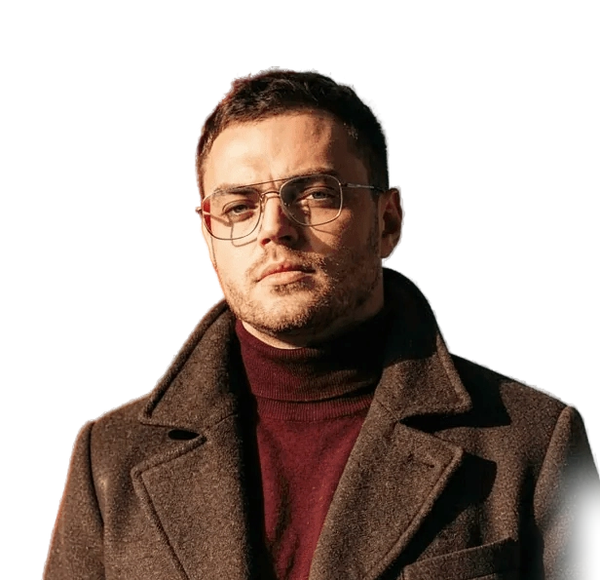
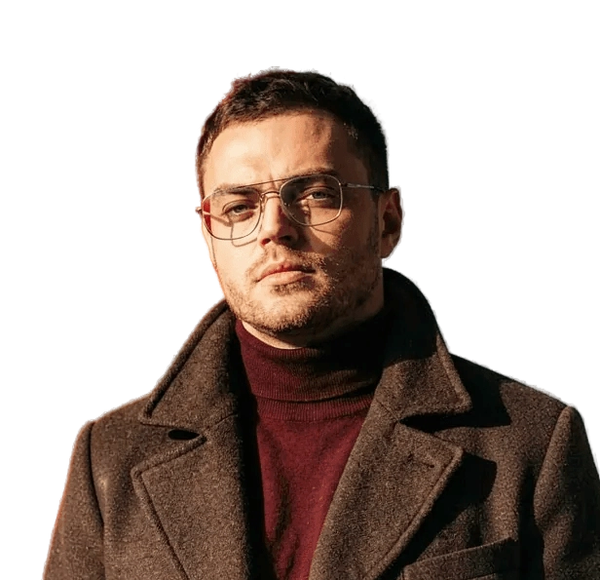
Презентация v3, команда: Кромм сдвинут влево и вниз — пальто уходит под плашку; у Москвичева слева ровная обрезка без размытия
Claude-Session: https://claude.ai/code/session_016TTUbKi4K5ZASpfJrwsQiN

Changed region(s): [[0.9, 0.7759, 1.0, 1.0]]

diff --git a/social-kit/deck-v3.html b/social-kit/deck-v3.html
@@ -334,6 +334,8 @@ a{color:inherit;text-decoration:none}
 .mate{position:relative;flex:none;width:384px;display:flex;flex-direction:column}
 .mate__ph{height:400px;background:center top/contain no-repeat;
   -webkit-mask-image:linear-gradient(#000 78%,transparent 100%);mask-image:linear-gradient(#000 78%,transparent 100%)}
+/* Кромм: пальто обрезано справа внизу — сдвигаем влево и чуть вниз, чтобы низ уходил под плашку */
+.mate__ph--krom{background-size:400px auto;background-position:-22px 4px}
 .mate__c{position:relative;margin-top:-26px;flex:1;padding:26px 28px 28px;border-radius:24px;background:#fff;box-shadow:0 0 0 2px var(--line),0 24px 40px -28px rgba(40,10,8,.35)}
 .mate__c::before{content:"";position:absolute;left:24px;top:0;width:48px;height:5px;border-radius:0 0 4px 4px;background:var(--brand)}
 .mate__n{white-space:nowrap;font-size:30px;font-weight:800;letter-spacing:-.015em;line-height:1.12}
@@ -1205,7 +1207,7 @@ a{color:inherit;text-decoration:none}
     <div class="team">
       <div class="mate"><div class="mate__ph" style="background-image:url('photos/team/moskvichev.png')"></div><div class="mate__c"><div class="mate__n">Антон Москвичев</div><div class="mate__r">Внедряю CRM-систему для&nbsp;управления бизнесом</div></div></div>
       <div class="mate"><div class="mate__ph" style="background-image:url('photos/team/yankovoy.png')"></div><div class="mate__c"><div class="mate__n">Александр Янковой</div><div class="mate__r">Строю дома для&nbsp;семей с&nbsp;детьми</div></div></div>
-      <div class="mate"><div class="mate__ph" style="background-image:url('photos/team/krom.png')"></div><div class="mate__c"><div class="mate__n">Вильгельм Кромм</div><div class="mate__r">Создаю сервисы для&nbsp;жизни, менеджмента и&nbsp;продаж</div></div></div>
+      <div class="mate"><div class="mate__ph mate__ph--krom" style="background-image:url('photos/team/krom.png')"></div><div class="mate__c"><div class="mate__n">Вильгельм Кромм</div><div class="mate__r">Создаю сервисы для&nbsp;жизни, менеджмента и&nbsp;продаж</div></div></div>
       <div class="mate"><div class="mate__ph" style="background-image:url('photos/team/rezvyakov.png')"></div><div class="mate__c"><div class="mate__n">Дмитрий Резвяков</div><div class="mate__r">Создаю нестандартные продукты</div></div></div>
     </div>
   </section>
